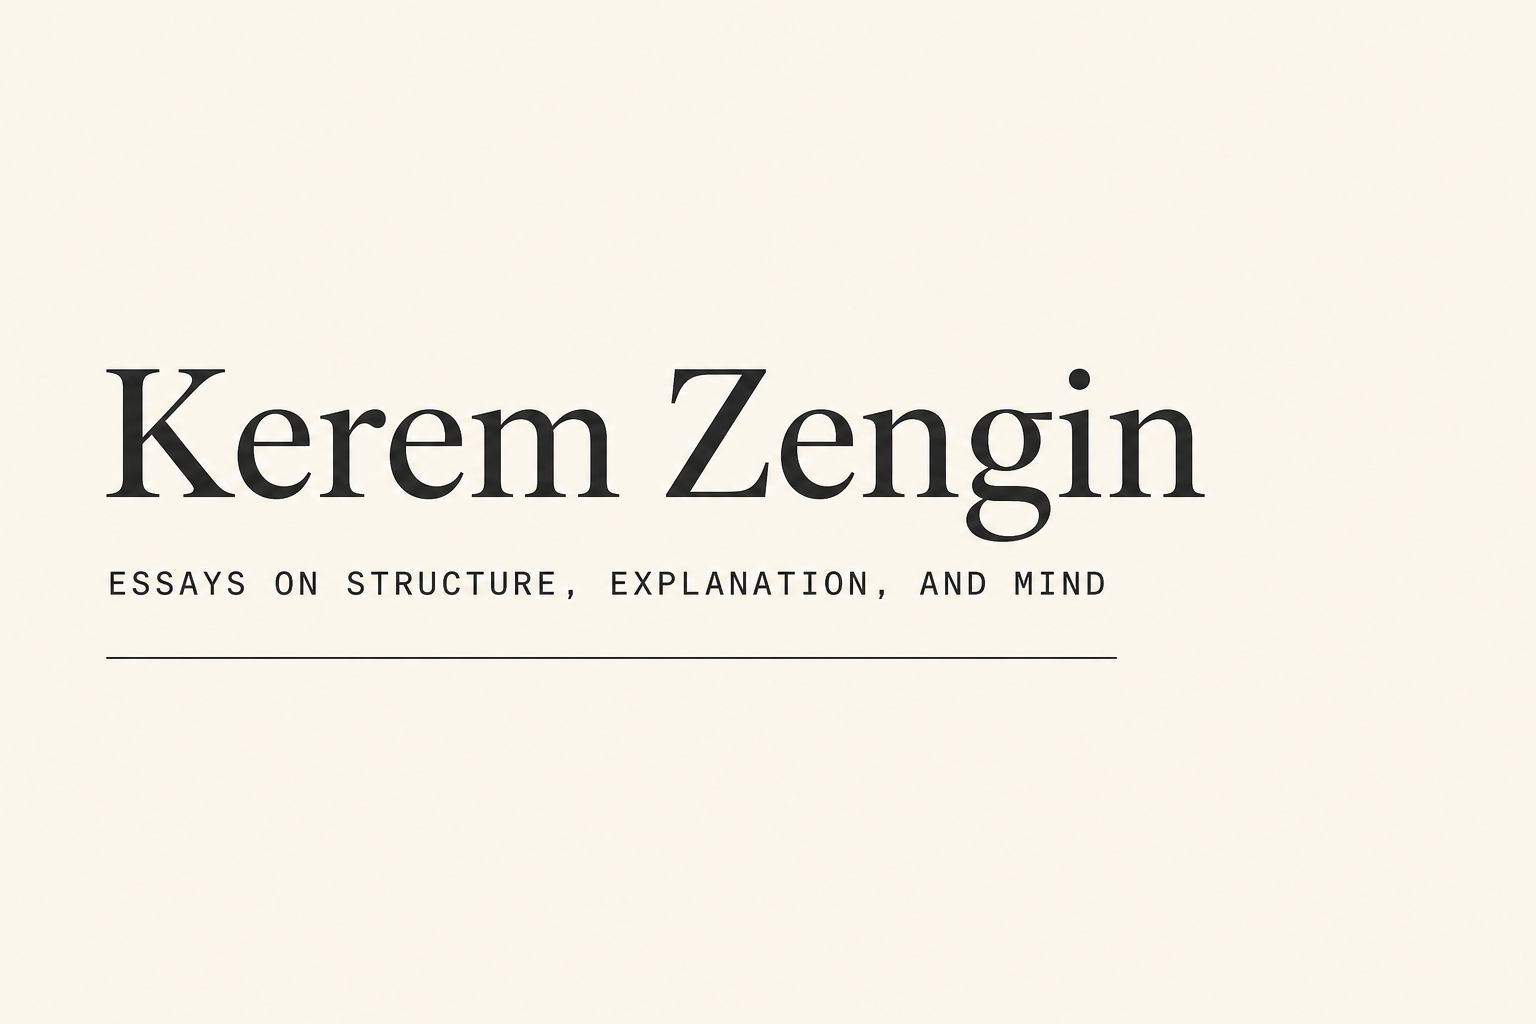
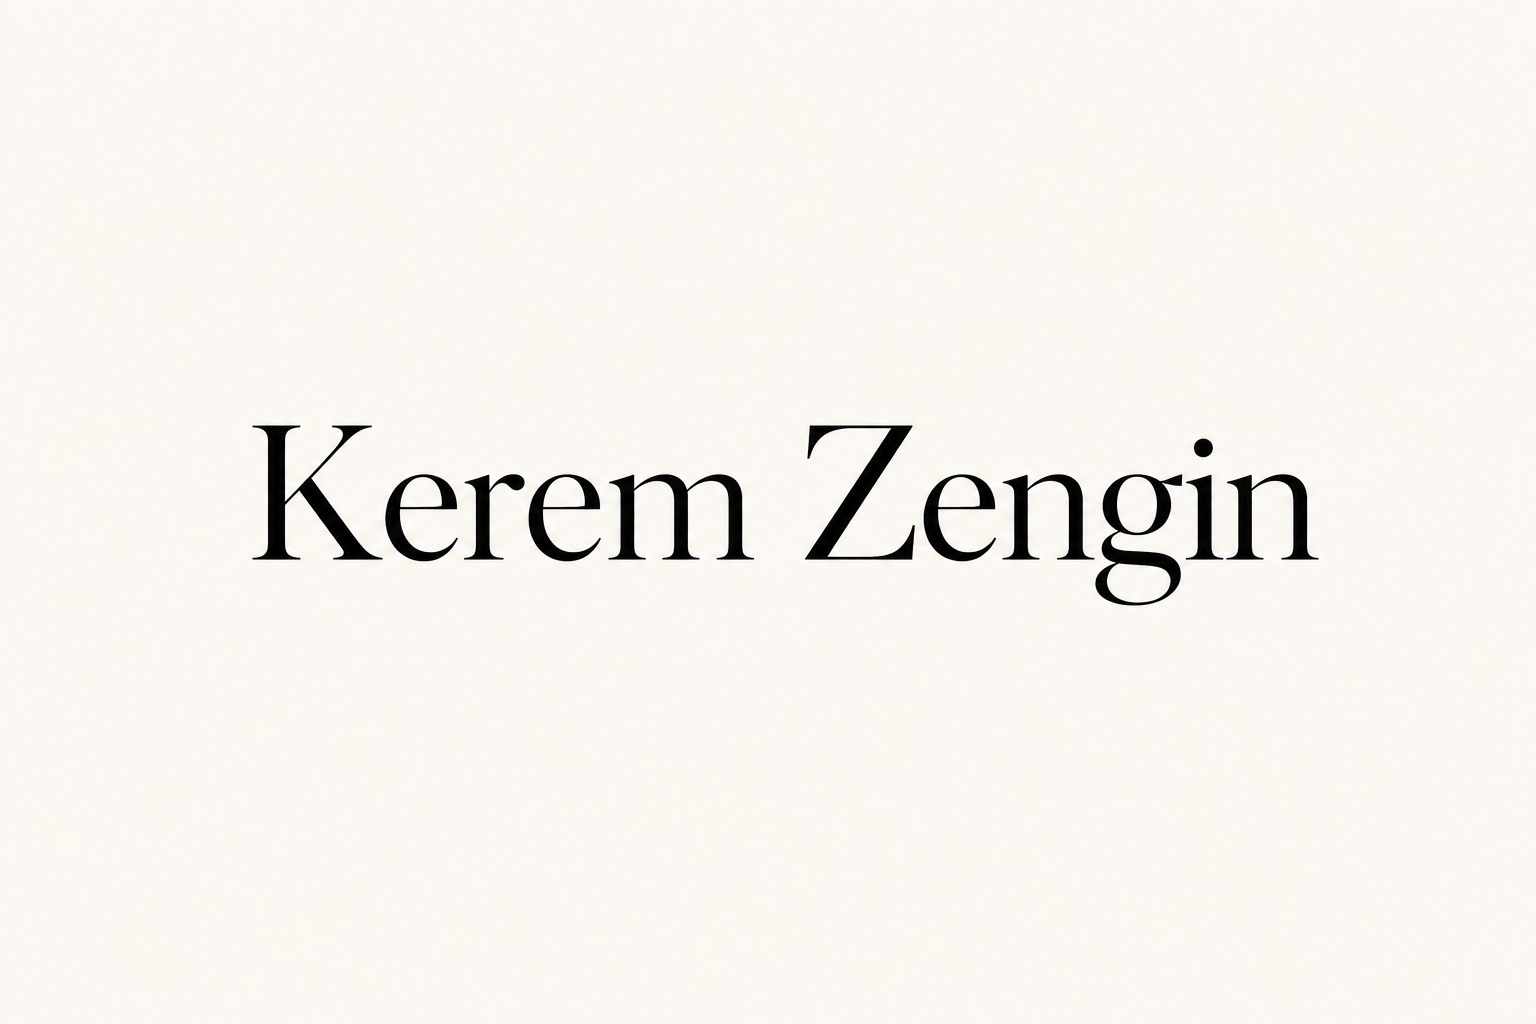
update

Changed region(s): [[0.0625, 0.3438, 0.875, 0.5938], [0.0625, 0.5625, 0.1562, 0.5938]]

diff --git a/components/BlogIndex.tsx b/components/BlogIndex.tsx
@@ -3,7 +3,12 @@
 import Link from "next/link";
 import { useMemo, useState } from "react";
 import { formatDate } from "@/lib/dates";
-import { blogCards, categoryTree, type BlogCard } from "@/lib/site";
+import {
+  blogCards,
+  categoryTree,
+  subcategoryTree,
+  type BlogCard,
+} from "@/lib/site";
 import styles from "./BlogIndex.module.css";
 
 type SortMode = "date-desc" | "date-asc";
@@ -109,16 +114,21 @@ export function BlogIndex() {
   const months = useMemo(() => uniqueMonths(blogCards), []);
   const [category, setCategory] = useState<string | null>(null);
   const [subcategory, setSubcategory] = useState<string | null>(null);
+  const [leaf, setLeaf] = useState<string | null>(null);
   const [month, setMonth] = useState<string | null>(null);
   const [sort, setSort] = useState<SortMode>("date-desc");
   const [open, setOpen] = useState(false);
   const [hoverParent, setHoverParent] = useState<string | null>(null);
+  const [hoverSub, setHoverSub] = useState<string | null>(null);
 
   const activeParent = hoverParent ?? category;
   const activeParentIndex = activeParent
     ? categories.indexOf(activeParent)
     : -1;
   const subs = activeParent ? (categoryTree[activeParent] ?? []) : [];
+  const activeSub = hoverSub ?? subcategory;
+  const activeSubIndex = activeSub ? subs.indexOf(activeSub) : -1;
+  const leaves = activeSub ? (subcategoryTree[activeSub] ?? []) : [];
   const show = open || category !== null;
 
   const posts = useMemo(() => {
@@ -126,7 +136,9 @@ export function BlogIndex() {
     if (category) {
       filtered = filtered.filter((p) => p.categories.includes(category));
     }
-    if (subcategory) {
+    if (leaf) {
+      filtered = filtered.filter((p) => (p.subcategories ?? []).includes(leaf));
+    } else if (subcategory) {
       filtered = filtered.filter((p) =>
         (p.subcategories ?? []).includes(subcategory),
       );
@@ -139,34 +151,52 @@ export function BlogIndex() {
         ? a.date.localeCompare(b.date)
         : b.date.localeCompare(a.date),
     );
-  }, [category, subcategory, month, sort]);
+  }, [category, subcategory, leaf, month, sort]);
 
   const rowH = 38;
+  const subRowH = 34;
   const parentH = Math.max(48, 8 + categories.length * rowH);
-  const subH = Math.max(parentH, 8 + Math.max(subs.length, 1) * rowH);
+  const subH = Math.max(parentH, 8 + Math.max(subs.length, 1) * subRowH);
+  const leafH = Math.max(subH, 8 + Math.max(leaves.length, 1) * subRowH);
   const parentStartY = 14;
   const subStartY =
     activeParentIndex >= 0 ? 14 + activeParentIndex * rowH : 14;
+  const leafStartY =
+    activeSubIndex >= 0 ? 14 + activeSubIndex * subRowH : 14;
 
   function clearFilter() {
     setCategory(null);
     setSubcategory(null);
+    setLeaf(null);
     setMonth(null);
     setHoverParent(null);
+    setHoverSub(null);
     setOpen(false);
   }
 
   function pickParent(cat: string) {
     setCategory(cat);
     setSubcategory(null);
+    setLeaf(null);
     setHoverParent(cat);
+    setHoverSub(null);
     setOpen(true);
   }
 
   function pickSub(sub: string) {
     if (!activeParent) return;
     setCategory(activeParent);
-    setSubcategory((prev) => (prev === sub ? null : sub));
+    setSubcategory((prev) => (prev === sub && !leaf ? null : sub));
+    setLeaf(null);
+    setHoverSub(sub);
+    setOpen(true);
+  }
+
+  function pickLeaf(item: string) {
+    if (!activeParent || !activeSub) return;
+    setCategory(activeParent);
+    setSubcategory(activeSub);
+    setLeaf((prev) => (prev === item ? null : item));
     setOpen(true);
   }
 
@@ -223,6 +253,7 @@ export function BlogIndex() {
           if (!category) {
             setOpen(false);
             setHoverParent(null);
+            setHoverSub(null);
           }
         }}
       >
@@ -236,13 +267,10 @@ export function BlogIndex() {
           >
             Topics
           </button>
-          {!show && (
-            <span className={styles.hint}>hover to explore</span>
-          )}
-          {(category || subcategory) && (
+          {!show && <span className={styles.hint}>hover to explore</span>}
+          {(category || subcategory || leaf) && (
             <span className={styles.trail}>
-              {category}
-              {subcategory ? ` / ${subcategory}` : ""}
+              {[category, subcategory, leaf].filter(Boolean).join(" / ")}
               <button
                 type="button"
                 className={styles.trailClear}
@@ -275,7 +303,10 @@ export function BlogIndex() {
                       height: rowH,
                       animationDelay: `${70 + i * 50}ms`,
                     }}
-                    onMouseEnter={() => setHoverParent(cat)}
+                    onMouseEnter={() => {
+                      setHoverParent(cat);
+                      setHoverSub(null);
+                    }}
                   >
                     <button
                       type="button"
@@ -300,12 +331,10 @@ export function BlogIndex() {
                 <BranchCurves
                   count={subs.length}
                   startY={subStartY}
-                  rowH={34}
+                  rowH={subRowH}
                   width={130}
                   height={subH}
-                  activeIndex={
-                    subcategory ? subs.indexOf(subcategory) : null
-                  }
+                  activeIndex={activeSubIndex >= 0 ? activeSubIndex : null}
                   markerId="arrow-subs"
                 />
                 <ul className={styles.nodeList}>
@@ -314,17 +343,58 @@ export function BlogIndex() {
                       key={sub}
                       className={styles.nodeItem}
                       style={{
-                        height: 34,
+                        height: subRowH,
+                        animationDelay: `${60 + i * 55}ms`,
+                      }}
+                      onMouseEnter={() => setHoverSub(sub)}
+                    >
+                      <button
+                        type="button"
+                        className={styles.node}
+                        data-active={subcategory === sub}
+                        data-hot={activeSub === sub}
+                        onClick={() => pickSub(sub)}
+                      >
+                        {sub}
+                      </button>
+                    </li>
+                  ))}
+                </ul>
+              </div>
+            ) : null}
+
+            {leaves.length > 0 && activeSub ? (
+              <div
+                className={styles.flowCol}
+                style={{ minHeight: leafH }}
+                key={`leaf-${activeSub}`}
+              >
+                <BranchCurves
+                  count={leaves.length}
+                  startY={leafStartY}
+                  rowH={subRowH}
+                  width={120}
+                  height={leafH}
+                  activeIndex={leaf ? leaves.indexOf(leaf) : null}
+                  markerId="arrow-leaves"
+                />
+                <ul className={styles.nodeList}>
+                  {leaves.map((item, i) => (
+                    <li
+                      key={item}
+                      className={styles.nodeItem}
+                      style={{
+                        height: subRowH,
                         animationDelay: `${60 + i * 55}ms`,
                       }}
                     >
                       <button
                         type="button"
                         className={styles.node}
-                        data-active={subcategory === sub}
-                        onClick={() => pickSub(sub)}
+                        data-active={leaf === item}
+                        onClick={() => pickLeaf(item)}
                       >
-                        {sub}
+                        {item}
                       </button>
                     </li>
                   ))}

diff --git a/lib/site.ts b/lib/site.ts
@@ -1,6 +1,6 @@
 export const site = {
   name: "Kerem Zengin",
-  title: "Kerem Zengin - essays on structure, explanation, and mind",
+  title: "Kerem Zengin",
   description:
     "Essays and notes on type theory, explainable AI, category theory, cognitive science, and the philosophy of mind. Teaching assistant courses at METU IAM.",
   url: "https://kerem-z.github.io",
@@ -157,6 +157,15 @@ export const categoryTree: Record<string, string[]> = {
   ],
 };
 
+/** Subcategory → deeper branches (third column in the topic map). */
+export const subcategoryTree: Record<string, string[]> = {
+  "Intuitionistic type theory": [
+    "Martin-Löf type theory",
+    "Propositions as types",
+    "Identity types",
+  ],
+};
+
 export const blogCards: BlogCard[] = [
   {
     slug: "what-is-an-explanation",
@@ -179,7 +188,12 @@ export const blogCards: BlogCard[] = [
     image: "/hypnosis.gif",
     date: "2026-08-12",
     categories: ["Type Theory"],
-    subcategories: ["Intuitionistic type theory", "Dependent types"],
+    subcategories: [
+      "Intuitionistic type theory",
+      "Dependent types",
+      "Martin-Löf type theory",
+      "Propositions as types",
+    ],
     status: "published",
   },
   {
@@ -202,7 +216,11 @@ export const blogCards: BlogCard[] = [
     image: "/hypnosis.gif",
     date: "2026-08-03",
     categories: ["XAI", "Type Theory"],
-    subcategories: ["Homotopy type theory", "Intuitionistic type theory"],
+    subcategories: [
+      "Homotopy type theory",
+      "Intuitionistic type theory",
+      "Identity types",
+    ],
     status: "forthcoming",
   },
 ];

diff --git a/app/blog/[slug]/page.tsx b/app/blog/[slug]/page.tsx
@@ -5,6 +5,7 @@ import { FeedbackLinks } from "@/components/FeedbackLinks";
 import { getAllSlugs, getContentBySlug } from "@/lib/content";
 import { formatDate } from "@/lib/dates";
 import { mdxOptions } from "@/lib/mdx";
+import { ogImageForSlug, ogImages } from "@/lib/og";
 import { site } from "@/lib/site";
 import styles from "../../article.module.css";
 
@@ -23,6 +24,7 @@ export async function generateMetadata({ params }: Props): Promise<Metadata> {
   const post = getContentBySlug("blog", slug);
   if (!post) return {};
   const url = `/blog/${slug}/`;
+  const image = ogImageForSlug(slug);
   return {
     title: post.title,
     description: post.description,
@@ -33,15 +35,13 @@ export async function generateMetadata({ params }: Props): Promise<Metadata> {
       url,
       siteName: site.name,
       publishedTime: post.date,
-      images: [
-        { url: "/og.png", width: 1200, height: 630, alt: post.title },
-      ],
+      images: ogImages(image, post.title),
     },
     twitter: {
       card: "summary_large_image",
       title: post.title,
       description: post.description,
-      images: ["/og.png"],
+      images: [image],
     },
   };
 }

diff --git a/app/pieces/what-is-an-explanation/page.tsx b/app/pieces/what-is-an-explanation/page.tsx
@@ -5,7 +5,11 @@ import { FeedbackLinks } from "@/components/FeedbackLinks";
 import { ExplanationLadder } from "@/components/pieces/ExplanationLadder";
 import { vignette } from "@/components/pieces/ladder/data";
 import { indexBib, loadBibFile } from "@/lib/bib";
+import { ogImageForSlug, ogImages } from "@/lib/og";
 import styles from "./piece.module.css";
+
+const slug = "what-is-an-explanation";
+const og = ogImageForSlug(slug);
 
 export const metadata: Metadata = {
   title: "What is an explanation?",
@@ -17,12 +21,12 @@ export const metadata: Metadata = {
     description:
       "An interactive essay on prediction versus explanation - saliency, counterfactuals, causal claims, and formal guarantees.",
     url: "/pieces/what-is-an-explanation/",
-    images: [{ url: "/og.png", width: 1200, height: 630 }],
+    images: ogImages(og, "What is an explanation?"),
   },
   twitter: {
     card: "summary_large_image",
     title: "What is an explanation?",
-    images: ["/og.png"],
+    images: [og],
   },
 };
 

diff --git a/app/blog/types-as-constraints-demo/page.tsx b/app/blog/types-as-constraints-demo/page.tsx
@@ -5,8 +5,12 @@ import { FeedbackLinks } from "@/components/FeedbackLinks";
 import { TypeRefinement } from "@/components/pieces/TypeRefinement";
 import { formatDate } from "@/lib/dates";
 import { mdxOptions } from "@/lib/mdx";
+import { ogImageForSlug, ogImages } from "@/lib/og";
 import { site } from "@/lib/site";
 import styles from "../../article.module.css";
+
+const slug = "types-as-constraints-demo";
+const og = ogImageForSlug(slug);
 
 export const metadata: Metadata = {
   title: "Types as constraints",
@@ -20,12 +24,12 @@ export const metadata: Metadata = {
     url: "/blog/types-as-constraints-demo/",
     siteName: site.name,
     publishedTime: "2026-08-12",
-    images: [{ url: "/og.png", width: 1200, height: 630 }],
+    images: ogImages(og, "Types as constraints"),
   },
   twitter: {
     card: "summary_large_image",
     title: "Types as constraints",
-    images: ["/og.png"],
+    images: [og],
   },
 };
 

diff --git a/lib/og.ts b/lib/og.ts
@@ -1,0 +1,27 @@
+import { site } from "@/lib/site";
+
+/** Default site share card. */
+export const defaultOgImage = "/og.png";
+
+/** Per-post Open Graph images under /public/og/. */
+const postOg: Record<string, string> = {
+  "what-is-an-explanation": "/og/what-is-an-explanation.png",
+  "types-as-constraints-demo": "/og/types-as-constraints-demo.png",
+  "causal-structures": "/og/causal-structures.png",
+  "formal-interpretability": "/og/formal-interpretability.png",
+};
+
+export function ogImageForSlug(slug: string): string {
+  return postOg[slug] ?? defaultOgImage;
+}
+
+export function ogImages(path: string, alt: string = site.name) {
+  return [
+    {
+      url: path,
+      width: 1200,
+      height: 630,
+      alt,
+    },
+  ];
+}

diff --git a/public/googlea0e2f08a7a437b46.html b/public/googlea0e2f08a7a437b46.html
@@ -1,0 +1,1 @@
+google-site-verification: googlea0e2f08a7a437b46.html
